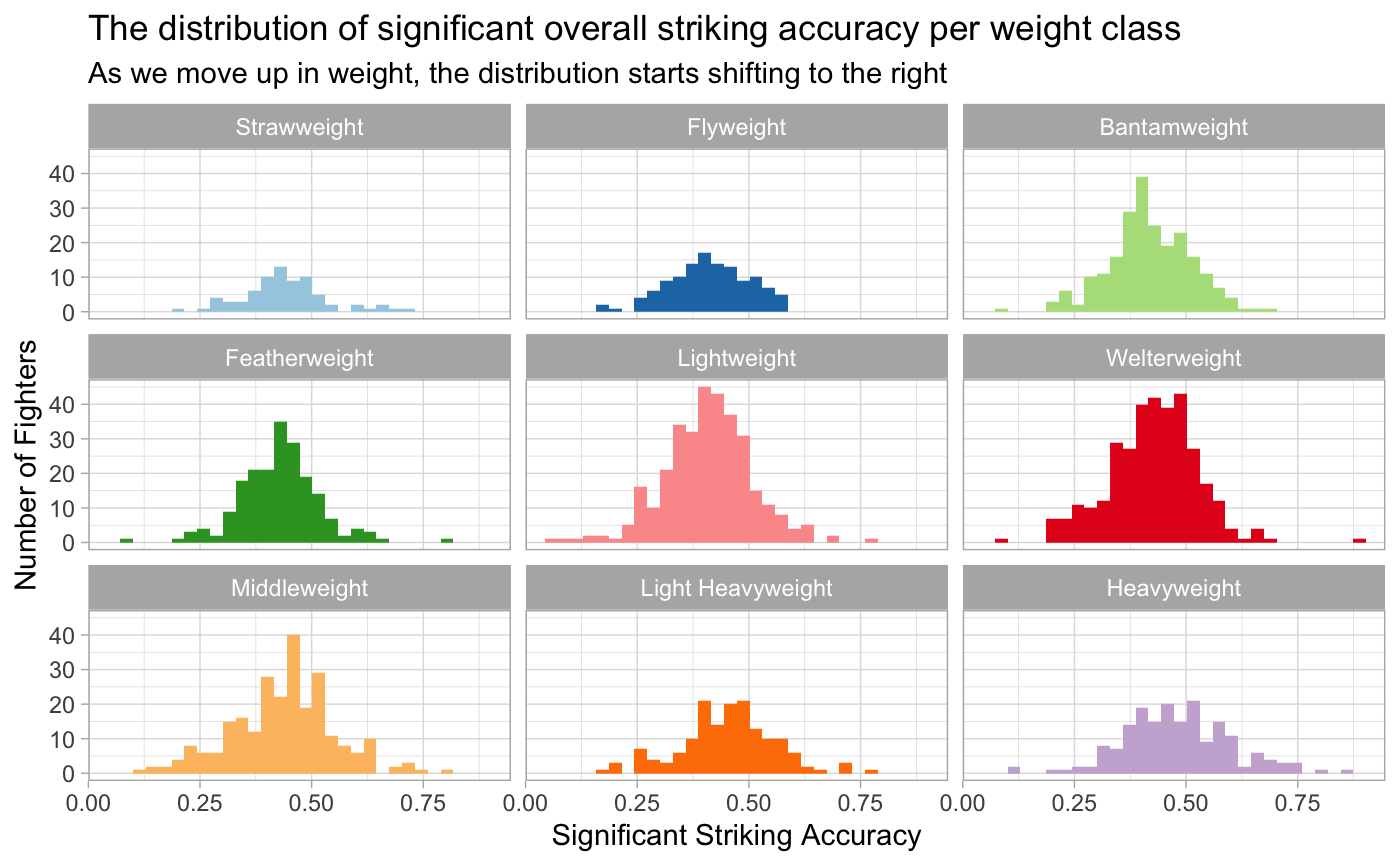
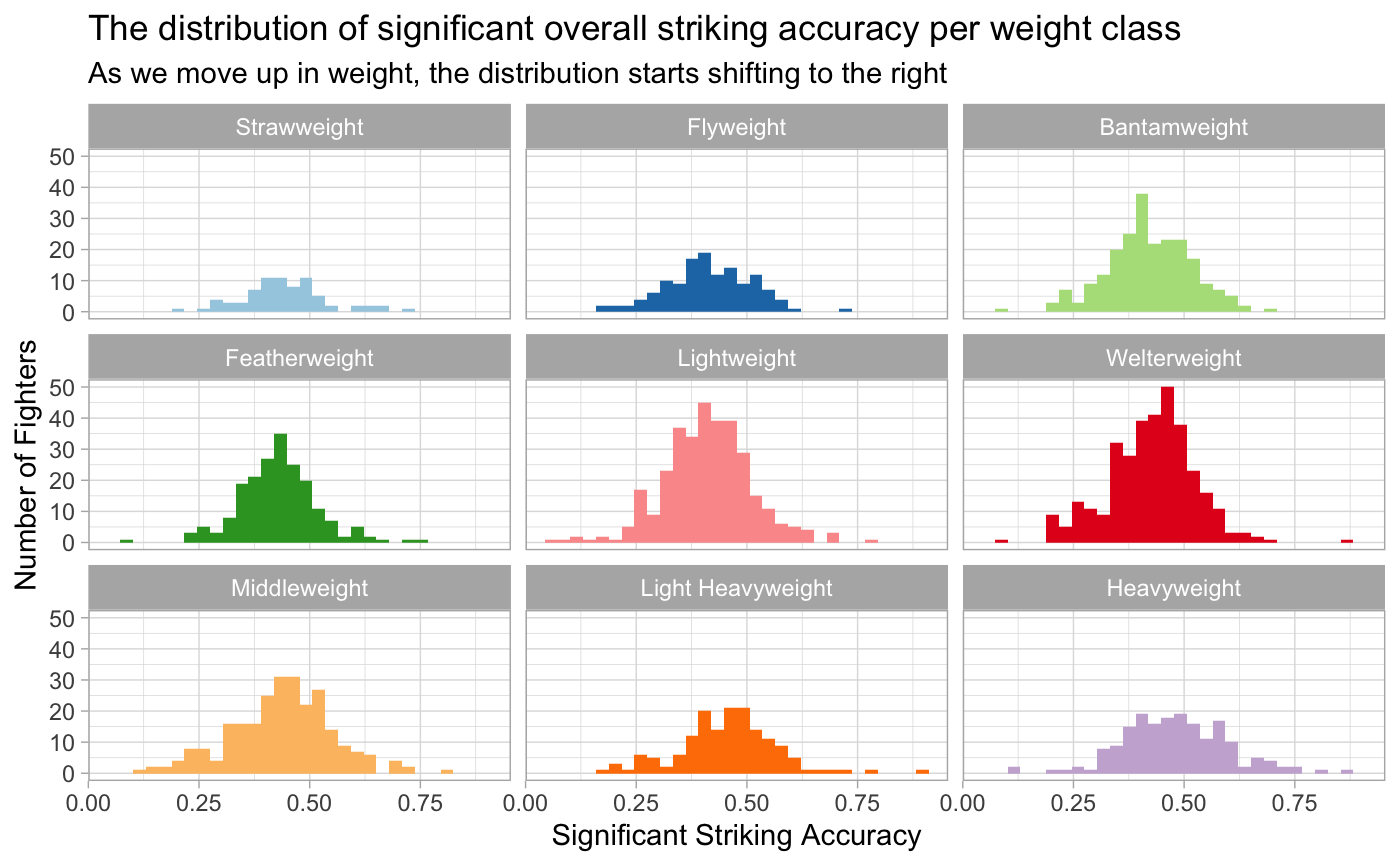
update package website

diff --git a/docs/index.html b/docs/index.html
@@ -31,7 +31,7 @@
       </button>
       <span class="navbar-brand">
         <a class="navbar-link" href="index.html">ufc.stats</a>
-        <span class="version label label-default" data-toggle="tooltip" data-placement="bottom" title="Released version">0.0.1</span>
+        <span class="version label label-default" data-toggle="tooltip" data-placement="bottom" title="Released version">0.0.2</span>
       </span>
     </div>
 
@@ -103,20 +103,26 @@
 <a href="#example-usage" class="anchor"></a>Example usage</h2>
 <p>Who has the most significant strikes landed in UFC history?</p>
 <div class="sourceCode" id="cb2"><pre class="sourceCode r"><code class="sourceCode r"><a class="sourceLine" id="cb2-1" data-line-number="1"><span class="kw"><a href="https://rdrr.io/r/base/library.html">library</a></span>(dplyr)</a>
-<a class="sourceLine" id="cb2-2" data-line-number="2"></a>
-<a class="sourceLine" id="cb2-3" data-line-number="3">ufc_stats <span class="op">%&gt;%</span><span class="st"> </span><span class="kw"><a href="https://dplyr.tidyverse.org/reference/group_by.html">group_by</a></span>(fighter) <span class="op">%&gt;%</span></a>
-<a class="sourceLine" id="cb2-4" data-line-number="4"><span class="st">  </span><span class="kw"><a href="https://dplyr.tidyverse.org/reference/summarise.html">summarise</a></span>(<span class="dt">total_significant_strikes =</span> <span class="kw"><a href="https://rdrr.io/r/base/sum.html">sum</a></span>(significant_strikes_landed)) <span class="op">%&gt;%</span></a>
-<a class="sourceLine" id="cb2-5" data-line-number="5"><span class="st">  </span><span class="kw"><a href="https://dplyr.tidyverse.org/reference/arrange.html">arrange</a></span>(<span class="op">-</span>total_significant_strikes) <span class="op">%&gt;%</span></a>
-<a class="sourceLine" id="cb2-6" data-line-number="6"><span class="st">  </span><span class="kw"><a href="https://rdrr.io/r/utils/head.html">head</a></span>()</a>
-<a class="sourceLine" id="cb2-7" data-line-number="7"><span class="co">#&gt; # A tibble: 6 x 2</span></a>
-<a class="sourceLine" id="cb2-8" data-line-number="8"><span class="co">#&gt;   fighter            total_significant_strikes</span></a>
-<a class="sourceLine" id="cb2-9" data-line-number="9"><span class="co">#&gt;   &lt;chr&gt;                                  &lt;int&gt;</span></a>
-<a class="sourceLine" id="cb2-10" data-line-number="10"><span class="co">#&gt; 1 Max Holloway                            2071</span></a>
-<a class="sourceLine" id="cb2-11" data-line-number="11"><span class="co">#&gt; 2 Joanna Jedrzejczyk                      1711</span></a>
-<a class="sourceLine" id="cb2-12" data-line-number="12"><span class="co">#&gt; 3 Frankie Edgar                           1568</span></a>
-<a class="sourceLine" id="cb2-13" data-line-number="13"><span class="co">#&gt; 4 Michael Bisping                         1567</span></a>
-<a class="sourceLine" id="cb2-14" data-line-number="14"><span class="co">#&gt; 5 Donald Cerrone                          1535</span></a>
-<a class="sourceLine" id="cb2-15" data-line-number="15"><span class="co">#&gt; 6 Jon Jones                               1463</span></a></code></pre></div>
+<a class="sourceLine" id="cb2-2" data-line-number="2"><span class="co">#&gt; Warning: package 'dplyr' was built under R version 3.6.2</span></a>
+<a class="sourceLine" id="cb2-3" data-line-number="3"></a>
+<a class="sourceLine" id="cb2-4" data-line-number="4">ufc_stats <span class="op">%&gt;%</span><span class="st"> </span><span class="kw"><a href="https://dplyr.tidyverse.org/reference/group_by.html">group_by</a></span>(fighter) <span class="op">%&gt;%</span></a>
+<a class="sourceLine" id="cb2-5" data-line-number="5"><span class="st">  </span><span class="kw"><a href="https://dplyr.tidyverse.org/reference/summarise.html">summarise</a></span>(<span class="dt">total_significant_strikes =</span> <span class="kw"><a href="https://rdrr.io/r/base/sum.html">sum</a></span>(significant_strikes_landed)) <span class="op">%&gt;%</span></a>
+<a class="sourceLine" id="cb2-6" data-line-number="6"><span class="st">  </span><span class="kw"><a href="https://dplyr.tidyverse.org/reference/arrange.html">arrange</a></span>(<span class="op">-</span>total_significant_strikes) <span class="op">%&gt;%</span></a>
+<a class="sourceLine" id="cb2-7" data-line-number="7"><span class="st">  </span><span class="kw"><a href="https://rdrr.io/r/utils/head.html">head</a></span>()</a>
+<a class="sourceLine" id="cb2-8" data-line-number="8"><span class="co">#&gt; # A tibble: 6 x 2</span></a>
+<a class="sourceLine" id="cb2-9" data-line-number="9"><span class="co">#&gt;   fighter            total_significant_strikes</span></a>
+<a class="sourceLine" id="cb2-10" data-line-number="10"><span class="co">#&gt;   &lt;chr&gt;                                  &lt;int&gt;</span></a>
+<a class="sourceLine" id="cb2-11" data-line-number="11"><span class="co">#&gt; 1 Max Holloway                            2618</span></a>
+<a class="sourceLine" id="cb2-12" data-line-number="12"><span class="co">#&gt; 2 Joanna Jedrzejczyk                      1711</span></a>
+<a class="sourceLine" id="cb2-13" data-line-number="13"><span class="co">#&gt; 3 Donald Cerrone                          1710</span></a>
+<a class="sourceLine" id="cb2-14" data-line-number="14"><span class="co">#&gt; 4 Frankie Edgar                           1705</span></a>
+<a class="sourceLine" id="cb2-15" data-line-number="15"><span class="co">#&gt; 5 Michael Bisping                         1567</span></a>
+<a class="sourceLine" id="cb2-16" data-line-number="16"><span class="co">#&gt; 6 Rafael Dos Anjos                        1493</span></a></code></pre></div>
+</div>
+<div id="updating-with-latest-fights" class="section level2">
+<h2 class="hasAnchor">
+<a href="#updating-with-latest-fights" class="anchor"></a>Updating with latest fights</h2>
+<p>The package contains a single function <code><a href="reference/refresh_data.html">refresh_data()</a></code> that updates the dataset contained within the package. Running <code><a href="https://rdrr.io/r/utils/data.html">data("ufc_stats")</a></code> subsequently, the latest version of the data.frame is loaded into memory.</p>
 </div>
 </div>
   </div>

diff --git a/docs/reference/refresh_data.html b/docs/reference/refresh_data.html
@@ -36,7 +36,7 @@
 
 
 <meta property="og:title" content="Refresh UFC data with the latest fights — refresh_data" />
-<meta property="og:description" content="Retrieve the latest ufc_stats data.frame from GitHub. This function will also automatically overwrite the current rda contained in the package." />
+<meta property="og:description" content="This function updates the rda file contained in the package folder data/ufc_stats.rda." />
 <meta name="twitter:card" content="summary" />
 
 
@@ -69,7 +69,7 @@
       </button>
       <span class="navbar-brand">
         <a class="navbar-link" href="../index.html">ufc.stats</a>
-        <span class="version label label-default" data-toggle="tooltip" data-placement="bottom" title="Released version">0.0.1</span>
+        <span class="version label label-default" data-toggle="tooltip" data-placement="bottom" title="Released version">0.0.2</span>
       </span>
     </div>
 
@@ -131,21 +131,17 @@
     </div>
 
     <div class="ref-description">
-    <p>Retrieve the latest ufc_stats data.frame from GitHub. This function will also automatically overwrite the current rda contained in the package.</p>
+    <p>This function updates the rda file contained in the package folder data/ufc_stats.rda.</p>
     </div>
 
     <pre class="usage"><span class='fu'>refresh_data</span>()</pre>
 
 
-    <h2 class="hasAnchor" id="value"><a class="anchor" href="#value"></a>Value</h2>
-
-    <p>The latest version of ufc_stats data.frame.</p>
 
   </div>
   <div class="col-md-3 hidden-xs hidden-sm" id="pkgdown-sidebar">
     <h2>Contents</h2>
     <ul class="nav nav-pills nav-stacked">
-      <li><a href="#value">Value</a></li>
     </ul>
 
   </div>

diff --git a/docs/news/index.html b/docs/news/index.html
@@ -67,7 +67,7 @@
       </button>
       <span class="navbar-brand">
         <a class="navbar-link" href="../index.html">ufc.stats</a>
-        <span class="version label label-default" data-toggle="tooltip" data-placement="bottom" title="Released version">0.0.1</span>
+        <span class="version label label-default" data-toggle="tooltip" data-placement="bottom" title="Released version">0.0.2</span>
       </span>
     </div>
 
@@ -134,6 +134,13 @@
 <li>Passes have been removed from the dataset, as on the official UFC stats site it has been replaced by ground control time. Might add this new metric at a future point, for now neither is in the most recent dataset.</li>
 </ul>
 </div>
+    <div id="ufc-stats-0-0-2-2021-02-28" class="section level1">
+<h1 class="page-header">
+<a href="#ufc-stats-0-0-2-2021-02-28" class="anchor"></a>ufc.stats 0.0.2 (2021-02-28)</h1>
+<ul>
+<li>The <code><a href="../reference/refresh_data.html">refresh_data()</a></code> has been fixed and now uses public S3 link to update the <code>ufc_stats</code> dataset within the package.</li>
+</ul>
+</div>
   </div>
 
   <div class="col-md-3 hidden-xs hidden-sm" id="pkgdown-sidebar">
@@ -141,6 +148,7 @@
       <h2>Contents</h2>
       <ul class="nav nav-pills nav-stacked">
         <li><a href="#ufc-stats-0-0-1-2021-01-24">0.0.1</a></li>
+        <li><a href="#ufc-stats-0-0-2-2021-02-28">0.0.2</a></li>
       </ul>
     </div>
   </div>

diff --git a/docs/reference/ufc_stats.html b/docs/reference/ufc_stats.html
@@ -69,7 +69,7 @@
       </button>
       <span class="navbar-brand">
         <a class="navbar-link" href="../index.html">ufc.stats</a>
-        <span class="version label label-default" data-toggle="tooltip" data-placement="bottom" title="Released version">0.0.1</span>
+        <span class="version label label-default" data-toggle="tooltip" data-placement="bottom" title="Released version">0.0.2</span>
       </span>
     </div>
 
@@ -139,7 +139,7 @@
 
     <h2 class="hasAnchor" id="format"><a class="anchor" href="#format"></a>Format</h2>
 
-    <p>An object of class <code>data.frame</code> with 27222 rows and 36 columns.</p>
+    <p>An object of class <code>data.frame</code> with 27668 rows and 36 columns.</p>
     <h2 class="hasAnchor" id="references"><a class="anchor" href="#references"></a>References</h2>
 
     <p>http://www.ufcstats.com/statistics/events/completed</p>

diff --git a/docs/404.html b/docs/404.html
@@ -67,7 +67,7 @@
       </button>
       <span class="navbar-brand">
         <a class="navbar-link" href="http://tamaszilagyi.com/ufc.stats//index.html">ufc.stats</a>
-        <span class="version label label-default" data-toggle="tooltip" data-placement="bottom" title="Released version">0.0.1</span>
+        <span class="version label label-default" data-toggle="tooltip" data-placement="bottom" title="Released version">0.0.2</span>
       </span>
     </div>
 

diff --git a/docs/articles/2020-04-15-striking.html b/docs/articles/2020-04-15-striking.html
@@ -31,7 +31,7 @@
       </button>
       <span class="navbar-brand">
         <a class="navbar-link" href="../index.html">ufc.stats</a>
-        <span class="version label label-default" data-toggle="tooltip" data-placement="bottom" title="Released version">0.0.1</span>
+        <span class="version label label-default" data-toggle="tooltip" data-placement="bottom" title="Released version">0.0.2</span>
       </span>
     </div>
 

diff --git a/docs/articles/data-dictionary.html b/docs/articles/data-dictionary.html
@@ -31,7 +31,7 @@
       </button>
       <span class="navbar-brand">
         <a class="navbar-link" href="../index.html">ufc.stats</a>
-        <span class="version label label-default" data-toggle="tooltip" data-placement="bottom" title="Released version">0.0.1</span>
+        <span class="version label label-default" data-toggle="tooltip" data-placement="bottom" title="Released version">0.0.2</span>
       </span>
     </div>
 

diff --git a/docs/articles/index.html b/docs/articles/index.html
@@ -67,7 +67,7 @@
       </button>
       <span class="navbar-brand">
         <a class="navbar-link" href="../index.html">ufc.stats</a>
-        <span class="version label label-default" data-toggle="tooltip" data-placement="bottom" title="Released version">0.0.1</span>
+        <span class="version label label-default" data-toggle="tooltip" data-placement="bottom" title="Released version">0.0.2</span>
       </span>
     </div>
 

diff --git a/docs/reference/index.html b/docs/reference/index.html
@@ -67,7 +67,7 @@
       </button>
       <span class="navbar-brand">
         <a class="navbar-link" href="../index.html">ufc.stats</a>
-        <span class="version label label-default" data-toggle="tooltip" data-placement="bottom" title="Released version">0.0.1</span>
+        <span class="version label label-default" data-toggle="tooltip" data-placement="bottom" title="Released version">0.0.2</span>
       </span>
     </div>
 

diff --git a/docs/LICENSE-text.html b/docs/LICENSE-text.html
@@ -67,7 +67,7 @@
       </button>
       <span class="navbar-brand">
         <a class="navbar-link" href="index.html">ufc.stats</a>
-        <span class="version label label-default" data-toggle="tooltip" data-placement="bottom" title="Released version">0.0.1</span>
+        <span class="version label label-default" data-toggle="tooltip" data-placement="bottom" title="Released version">0.0.2</span>
       </span>
     </div>
 

diff --git a/docs/LICENSE.html b/docs/LICENSE.html
@@ -67,7 +67,7 @@
       </button>
       <span class="navbar-brand">
         <a class="navbar-link" href="index.html">ufc.stats</a>
-        <span class="version label label-default" data-toggle="tooltip" data-placement="bottom" title="Released version">0.0.1</span>
+        <span class="version label label-default" data-toggle="tooltip" data-placement="bottom" title="Released version">0.0.2</span>
       </span>
     </div>
 

diff --git a/docs/authors.html b/docs/authors.html
@@ -67,7 +67,7 @@
       </button>
       <span class="navbar-brand">
         <a class="navbar-link" href="index.html">ufc.stats</a>
-        <span class="version label label-default" data-toggle="tooltip" data-placement="bottom" title="Released version">0.0.1</span>
+        <span class="version label label-default" data-toggle="tooltip" data-placement="bottom" title="Released version">0.0.2</span>
       </span>
     </div>
 
